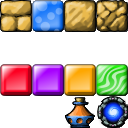
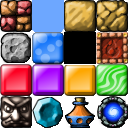
renderizado y eventos de raton
He cambiado el renderizado que habia copiado, por uno mio.
He añadido los eventos de raton y va funcionando poco a poco

diff --git a/Gem/constantes.hpp b/Gem/constantes.hpp
@@ -5,13 +5,13 @@ DATA:	Tambien trataremos de tener aqui los datos a leer, como por ejemplo todos 
 		y sus datos.
 */
 
-static const int MAXGLOBAL = 32;
+static const int MAXGLOBAL = 16;
 static const int TAMPIXEL = 32;
 static const int MAXMATERIALES = 16; //Se utiliza para la creacion del array con todos los elementos
-static const int MAXHEIGHT = MAXGLOBAL;
-static const int MAXWIDTH = MAXGLOBAL;
-static const int WINDOWWIDTH = MAXHEIGHT * TAMPIXEL;
-static const int WINDOWHEIGHT = MAXWIDTH * TAMPIXEL;
+static const int MAXHEIGHT = 16;
+static const int MAXWIDTH = 32;
+static const int WINDOWWIDTH = MAXWIDTH * TAMPIXEL;
+static const int WINDOWHEIGHT =MAXHEIGHT * TAMPIXEL;
 
 //Este porcentaje indica la cantidad de "cielo" inicial que habria por cada mapa
 static const float PORHEIGHT = 0.8f; 
@@ -25,6 +25,7 @@ struct tMat
 	int id;
 	std::string corto;
 	std::string largo;
+	int posT[2];	
 };
 
 tMat elementos[MAXMATERIALES];
@@ -34,58 +35,103 @@ void load()
 	elementos[0].id=0;
 	elementos[0].corto = "#";
 	elementos[0].largo = "Muro";
+	elementos[0].posT[0]=0;
+	elementos[0].posT[1]=0;
 	elementos[1].id=1;
 	elementos[1].corto = "A";
 	elementos[1].largo = "Air";
+	elementos[1].posT[0]=1;
+	elementos[1].posT[1]=0;
 	elementos[2].id=2;
 	elementos[2].corto = "S";
 	elementos[2].largo = "Sand";
+	elementos[2].posT[0]=2;
+	elementos[2].posT[1]=0;
 	elementos[3].id=3;
 	elementos[3].corto = "M";
 	elementos[3].largo = "Mud";
+	elementos[3].posT[0]=3;
+	elementos[3].posT[1]=0;
 	//---------------------------//
 	elementos[4].id=4;
 	elementos[4].corto = "I";
 	elementos[4].largo = "Iron";
+	elementos[4].posT[0]=0;
+	elementos[4].posT[1]=1;
 	elementos[5].id=5;
 	elementos[5].corto = "G";
 	elementos[5].largo = "Gold";
+	elementos[5].posT[0]=1;
+	elementos[5].posT[1]=1;
 	elementos[6].id=6;
 	elementos[6].corto = "I";
 	elementos[6].largo = "Iron";
+	elementos[6].posT[0]=2;
+	elementos[6].posT[1]=1;
 	elementos[7].id=7;
 	elementos[7].corto = "G";
 	elementos[7].largo = "Gold";
+	elementos[7].posT[0]=3;
+	elementos[7].posT[1]=1;
 	//---------------------------//
 	elementos[8].id=8;
 	elementos[8].corto = "R";
 	elementos[8].largo = "Ruby";
+	elementos[8].posT[0]=0;
+	elementos[8].posT[1]=2;
 	elementos[9].id=9;
 	elementos[9].corto = "M";
 	elementos[9].largo = "Amethist";
+	elementos[9].posT[0]=1;
+	elementos[9].posT[1]=2;
 	elementos[10].id=10;
 	elementos[10].corto = "G";
+	elementos[10].posT[0]=2;
+	elementos[10].posT[1]=2;
 	elementos[10].largo = "Gold";
 	elementos[11].id=11;
 	elementos[11].corto = "E";
 	elementos[11].largo = "Emerald";
+	elementos[11].posT[0]=3;
+	elementos[11].posT[1]=2;
 	//---------------------------//
 	elementos[12].id=12;
 	elementos[12].corto = "S";
 	elementos[12].largo = "Sand";
+	elementos[12].posT[0]=0;
+	elementos[12].posT[1]=3;
 	elementos[13].id=13;
 	elementos[13].corto = "M";
 	elementos[13].largo = "Mud";
+	elementos[13].posT[0]=1;
+	elementos[13].posT[1]=3;
 	elementos[14].id=14;
 	elementos[14].corto = "P";
 	elementos[14].largo = "Potion";
+	elementos[14].posT[0]=2;
+	elementos[14].posT[1]=3;
 	elementos[15].id=15;
 	elementos[15].corto = "E";
 	elementos[15].largo = "Exit";
+	elementos[15].posT[0]=3;
+	elementos[15].posT[1]=3;
 }
 
 //Devuelve la cadena de texto de un solo caracter en string, en principio esto lo utilizaremos como DEBUG en la consola
 std::string getShort(int n)
 {
 	return elementos[n].corto;
+}
+
+//Devuelve la posicion x dentro del fichero de texturas
+int postx(int n)
+{
+	int temp = elementos[n].posT[0];
+	return temp;
+}
+
+//Devuelve la posicion y dentro del fichero de texturas
+int posty(int n)
+{
+	return elementos[n].posT[1];
 }

diff --git a/Gem/gameScreen.hpp b/Gem/gameScreen.hpp
@@ -1,42 +1,33 @@
-#include "tilemap.hpp"
 
 int gameWindow()
 {
     // create the window
     sf::RenderWindow window(sf::VideoMode(WINDOWWIDTH, WINDOWHEIGHT), "Tilemap");
 
-	Map* mapa = new Map();
+	Map* mapa1 = new Map();
+	Map* mapaActual=mapa1;
 
-    // define the level with an array of tile indices
-    int level[MAXHEIGHT*MAXWIDTH];
+	int level1[MAXWIDTH][MAXHEIGHT];
+
 	int contador = 0;
-	for (int j=0; j<MAXWIDTH; j++)
+	for (int j=0; j<MAXHEIGHT; j++)
 	{
-		for (int i=0; i<MAXHEIGHT; i++)
+		for (int i=0; i<MAXWIDTH; i++)
 		{
-			level[contador]=mapa->getCeldaID(i,j);
-			contador++;
-			if (j > 5)
+			
+			level1[i][j] = mapaActual->getCeldaID(i,j);
+			if (j > 14)
 				std::cout<<std::endl;
 		}
 	}
-	/*=
-    {
-        0, 0, 0, 0, 0, 0, 1, 1, 1, 1, 1, 1, 1, 1, 1, 1,
-        0, 1, 1, 1, 1, 1, 1, 0, 0, 0, 0, 2, 0, 0, 0, 0,
-        1, 1, 0, 0, 0, 0, 0, 0, 3, 3, 3, 3, 3, 3, 3, 3,
-        0, 1, 0, 0, 2, 0, 3, 3, 3, 0, 1, 1, 1, 0, 0, 0,
-        0, 1, 1, 0, 4, 3, 3, 0, 0, 0, 1, 1, 1, 2, 0, 0,
-        0, 0, 1, 6, 3, 0, 2, 2, 0, 0, 1, 1, 1, 12, 2, 0,
-        2, 0, 1, 0, 3, 0, 2, 2, 3, 0, 1, 1, 3, 3, 13, 1,
-        0, 0, 1, 0, 3, 2, 2, 2, 0, 6, 0, 0, 1, 8, 11, 15,
-    };*/
+	sf::Texture texture; 
+    sf::Sprite tiles; 
 
-    // create the tilemap from the level definition
-    TileMap map;
-    if (!map.load("items.png", sf::Vector2u(32, 32), level, MAXHEIGHT, MAXWIDTH))
-        return -1;
-
+	if(!texture.loadFromFile("items.png"))
+        std::cout << "could not locate the specified file" << std::endl; 
+	else
+        tiles.setTexture(texture);
+ 
     // run the main loop
     while (window.isOpen())
     {
@@ -45,12 +36,44 @@ int gameWindow()
         while (window.pollEvent(event))
         {
             if(event.type == sf::Event::Closed)
-                window.close();
+                window.close();	
         }
-
+		if(sf::Mouse::isButtonPressed(sf::Mouse::Left))
+		{
+            int coordX = event.mouseButton.x;
+			int coordY = event.mouseButton.y;
+			//std::cout << coordX << std::endl;
+			for (int j=0; j<MAXHEIGHT; j++)
+			{
+				for (int i=0; i<MAXWIDTH; i++)
+				{	
+					if ( coordX > i*32 && coordX < (i+1)*32 && coordY > j*32 && coordY < (j+1)*32 )
+					{
+						//std::cout << "hay colision en " << "x: " << i <<" y: " << j << std::endl;
+						if (mapaActual->celdaVisible(i,j) && mapaActual->celdaPermitida(i,j))
+							mapaActual->setAire(i,j);
+						if (coordX > WINDOWWIDTH - 20)
+							mapaActual = new Map(0);
+					}
+				}			
+			}
+		}
         // draw the map
         window.clear(sf::Color::White);
-        window.draw(map);
+		//Voy a intentar crear mi propio renderer
+
+		//recorro todo el mapa1
+		for (int j=0; j<MAXHEIGHT; j++)
+		{
+			for (int i=0; i<MAXWIDTH; i++)
+			{				
+				tiles.setPosition(i*32,j*32);
+				tiles.setTextureRect(sf::IntRect(32*(mapaActual->getCeldaTexturePos(i,j)).x,32*(mapaActual->getCeldaTexturePos(i,j)).y, 32, 32));
+				if (mapaActual->celdaVisible(i,j))
+					window.draw(tiles);
+			}			
+		}
+
         window.display();
     }
 

diff --git a/Gem/celda.hpp b/Gem/celda.hpp
@@ -9,16 +9,26 @@ class Celda
 	public:		
 		int material;
 		bool visible;
+		int posTx;
+		int posTy;
 		Celda();
 		Celda(int n);
 		std::string getMaterial();
 		int getMaterialID();
+		int getMaterialTPx();
+		int getMaterialTPy();
+		void setAire();
+		
 };
 
 //Este es el constructor estandar, que construye cualquier tipo de material salvo los ESPECIALES
 Celda::Celda()
 {
-	int num = rand() % (MAXMATERIALES-ESPECIALESMAT) + ESPECIALESMAT;
+	int num = 0;
+	//while ((num = rand() % (MAXMATERIALES-ESPECIALESMAT) + ESPECIALESMAT) == 6)
+	num = rand() % (MAXMATERIALES-ESPECIALESMAT) + ESPECIALESMAT;
+	while (num == 6)
+		num = rand() % (MAXMATERIALES-ESPECIALESMAT) + ESPECIALESMAT;
 	material = num;
 	visible = true;
 }
@@ -38,4 +48,19 @@ std::string Celda::getMaterial()
 int Celda::getMaterialID()
 {
 	return material;
+}
+
+int Celda::getMaterialTPx()
+{
+	return postx(material);
+}
+
+int Celda::getMaterialTPy()
+{
+	return posty(material);
+}
+
+void Celda::setAire()
+{
+	this->material = 1;
 }

diff --git a/Gem/main.cpp b/Gem/main.cpp
@@ -6,4 +6,5 @@ int main()
 	load();
 	print_map();
 	gameWindow();
+	
 }
